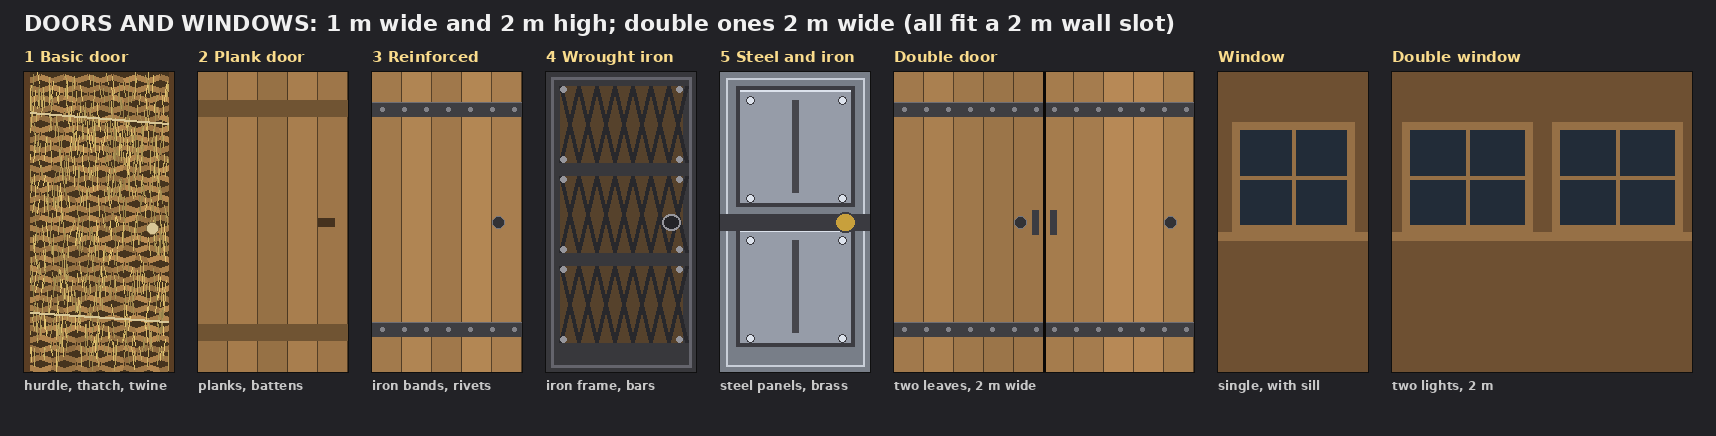
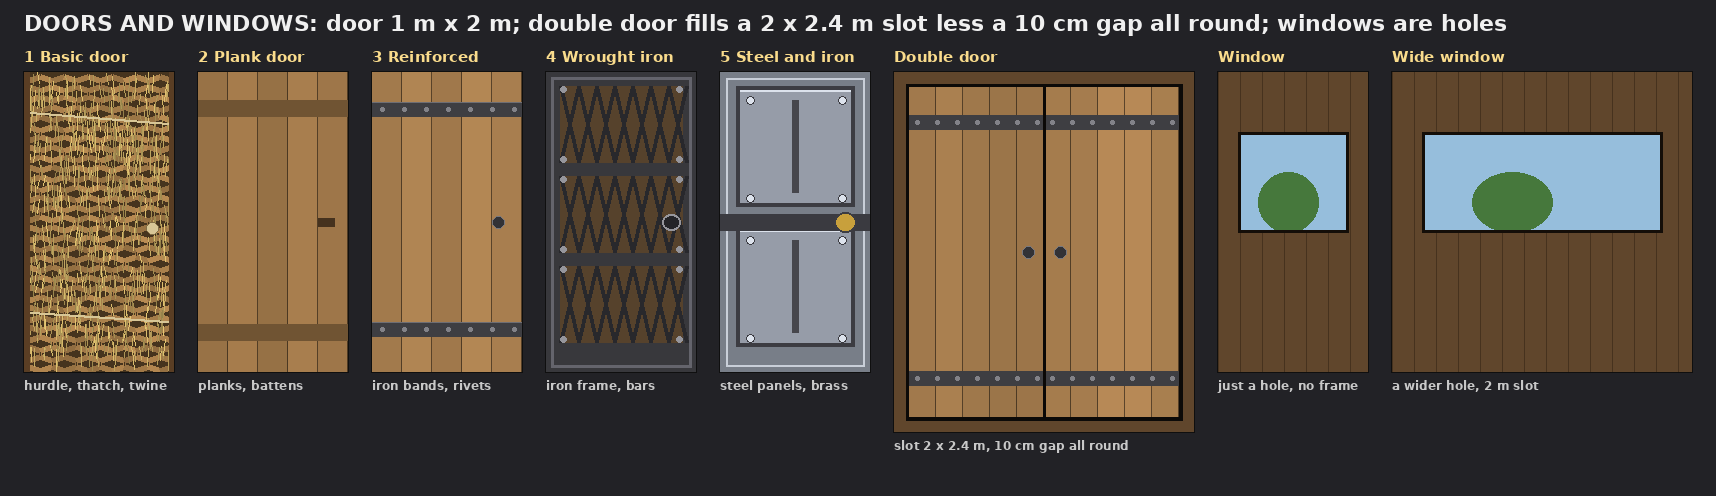
Doors: windows are holes, double door 10 cm gap all round (designs)
Claude-Session: https://claude.ai/code/session_01CZx7jASx6pGZ8KWpdsaQti

diff --git a/tools/design_tiers.py b/tools/design_tiers.py
@@ -652,43 +652,61 @@ def door_steel(rng):
 
 
 def door_double(rng):
-    w, h = DOOR
-    img = canvas((w * 2, h), (30, 22, 14))
-    left = door_reinforced(rng)
-    right = door_reinforced(rng)
-    img.paste(left, (0, 0))
-    img.paste(right, (w, 0))
+    """A double door in a full 2 m x 2.4 m wall slot: each edge 10 cm short of the slot all round (a visible gap), so the leaves are 1.8 m wide and 2.2 m high."""
+    sw, sh = 2 * PPM, int(2.4 * PPM)
+    img = canvas((sw, sh), (96, 70, 44))                        # the wall around it
+    g = int(0.1 * PPM)
+    leaf_w, leaf_h = (sw - 2 * g) // 2, sh - 2 * g
     d = ImageDraw.Draw(img)
-    d.line([(w, 0), (w, h)], fill=(10, 8, 6), width=3)
-    d.rectangle([w - 12, h // 2 - 12, w - 6, h // 2 + 12], fill=(60, 60, 66))
-    d.rectangle([w + 6, h // 2 - 12, w + 12, h // 2 + 12], fill=(60, 60, 66))
+    d.rectangle([g - 3, g - 3, sw - g + 3, sh - g + 3], fill=(12, 10, 8))                # the 10 cm gap: dark around the leaves
+
+    for k in range(2):
+        leaf = Image.new("RGB", (leaf_w, leaf_h), (30, 22, 14))
+        dl = ImageDraw.Draw(leaf)
+        door_planks(dl, leaf_w, leaf_h, rng, (170, 128, 80), battens=False)
+
+        for y in (28, leaf_h - 46):
+            dl.rectangle([0, y, leaf_w, y + 14], fill=(62, 62, 66))
+
+            for x in range(8, leaf_w, 20):
+                dl.ellipse([x - 2, y + 5, x + 2, y + 9], fill=(130, 130, 136))
+
+        img.paste(leaf, (g + k * leaf_w, g))
+
+    d = ImageDraw.Draw(img)
+    d.line([(sw // 2, g), (sw // 2, sh - g)], fill=(10, 8, 6), width=3)                 # the 3 mm seam between the leaves is drawn heavier so it shows
+    d.ellipse([sw // 2 - 22, sh // 2 - 6, sw // 2 - 10, sh // 2 + 6], fill=(50, 50, 54), outline=(120, 120, 126))
+    d.ellipse([sw // 2 + 10, sh // 2 - 6, sw // 2 + 22, sh // 2 + 6], fill=(50, 50, 54), outline=(120, 120, 126))
     return img
 
 
 def window_single(rng):
+    """A window is just a hole in the wall (Dave): the wall around it, sky and a tree beyond. No frame. Shutters come later as separate hinged pieces."""
     w, h = DOOR
-    img = canvas((w, h), (110, 80, 50))
+    img = canvas((w, h), (96, 70, 44))
     d = ImageDraw.Draw(img)
-    d.rectangle([14, 50, w - 14, 50 + 110], fill=(34, 44, 56))
-    d.rectangle([14, 50, w - 14, 50 + 110], outline=(150, 112, 70), width=8)
-    d.line([(w // 2, 56), (w // 2, 152)], fill=(150, 112, 70), width=4)
-    d.line([(20, 105), (w - 20, 105)], fill=(150, 112, 70), width=4)
-    d.rectangle([0, 160, w, 168], fill=(150, 112, 70))
+
+    for x in range(0, w, 22):
+        d.line([(x, 0), (x, h)], fill=(70, 50, 30), width=1)
+
+    d.rectangle([20, 60, w - 20, 160], fill=(150, 190, 220))
+    d.ellipse([40, 100, 100, 160], fill=(70, 120, 60))
+    d.rectangle([20, 60, w - 20, 160], outline=(20, 14, 8), width=3)
     return img
 
 
 def window_double(rng):
+    """A wide window: a bigger hole, 1.6 m (still just a hole)."""
     w, h = DOOR
-    img = canvas((w * 2, h), (110, 80, 50))
+    img = canvas((w * 2, h), (96, 70, 44))
     d = ImageDraw.Draw(img)
 
-    for k in range(2):
-        x0 = k * w + 10
-        d.rectangle([x0, 50, x0 + w - 20, 160], fill=(34, 44, 56), outline=(150, 112, 70), width=8)
-        d.line([(x0 + (w - 20) // 2, 56), (x0 + (w - 20) // 2, 152)], fill=(150, 112, 70), width=4)
-        d.line([(x0 + 6, 105), (x0 + w - 26, 105)], fill=(150, 112, 70), width=4)
+    for x in range(0, w * 2, 22):
+        d.line([(x, 0), (x, h)], fill=(70, 50, 30), width=1)
 
-    d.rectangle([0, 160, w * 2, 168], fill=(150, 112, 70))
+    d.rectangle([30, 60, w * 2 - 30, 160], fill=(150, 190, 220))
+    d.ellipse([80, 100, 160, 160], fill=(70, 120, 60))
+    d.rectangle([30, 60, w * 2 - 30, 160], outline=(20, 14, 8), width=3)
     return img
 
 
@@ -696,20 +714,20 @@ def doors_sheet(out):
     gap = 24
     items = [("1 Basic door", door_basic, "hurdle, thatch, twine"), ("2 Plank door", door_plank, "planks, battens"), ("3 Reinforced", door_reinforced, "iron bands, rivets"),
              ("4 Wrought iron", door_wrought, "iron frame, bars"), ("5 Steel and iron", door_steel, "steel panels, brass"),
-             ("Double door", door_double, "two leaves, 2 m wide"), ("Window", window_single, "single, with sill"), ("Double window", window_double, "two lights, 2 m")]
-    sizes = [DOOR, DOOR, DOOR, DOOR, DOOR, (2 * DOOR[0], DOOR[1]), DOOR, (2 * DOOR[0], DOOR[1])]
+             ("Double door", door_double, "slot 2 x 2.4 m, 10 cm gap all round"), ("Window", window_single, "just a hole, no frame"), ("Wide window", window_double, "a wider hole, 2 m slot")]
+    sizes = [DOOR, DOOR, DOOR, DOOR, DOOR, (2 * DOOR[0], int(2.4 * PPM)), DOOR, (2 * DOOR[0], DOOR[1])]
     w = sum(s[0] for s in sizes) + gap * (len(items) + 1)
-    h = 72 + DOOR[1] + 40 + gap
+    h = 72 + int(2.4 * PPM) + 40 + gap
     img = canvas((w, h), (34, 34, 38))
     d = ImageDraw.Draw(img)
-    d.text((gap, 10), "DOORS AND WINDOWS: 1 m wide and 2 m high; double ones 2 m wide (all fit a 2 m wall slot)", fill=(240, 240, 240), font=font(22))
+    d.text((gap, 10), "DOORS AND WINDOWS: door 1 m x 2 m; double door fills a 2 x 2.4 m slot less a 10 cm gap all round; windows are holes", fill=(240, 240, 240), font=font(22))
     x = gap
 
     for (name, make, note), size in zip(items, sizes):
         img.paste(make(rng_for(len(name))), (x, 72))
         d.rectangle([x - 1, 71, x + size[0], 72 + size[1]], outline=(15, 15, 15))
         d.text((x, 48), name, fill=(250, 220, 140), font=font(15))
-        d.text((x, 72 + DOOR[1] + 6), note, fill=(200, 200, 200), font=font(12))
+        d.text((x, 72 + size[1] + 6), note, fill=(200, 200, 200), font=font(12))
         x += size[0] + gap
 
     img.save(out)

diff --git a/art/BUILDING_TIERS_LOOKS.md b/art/BUILDING_TIERS_LOOKS.md
@@ -50,3 +50,6 @@ Place and door sounds per tier: thatch (basic), board (plank, fine), log (new: d
 - Each angle has a straight slope piece, a HIP corner piece (outside corner) and a VALLEY corner piece (inside corner of an L-shaped house): 6 roof pieces per tier look.
 - Pillars: round log post, squared timber, stone pillar, mason column (base and capital). A pillar snaps to the centre or any of the 4 corners of a foundation (4 x 4 m) or a floor/ceiling cell (2 x 2 m): 5 snap points.
 - Foundation sentence for the page: every building starts on a foundation. A foundation goes on the ground anywhere level enough to hide the whole bottom; on a slope it must be levelled first. Foundations join side by side to make the floor and the shape of the house, then you build up from them. Most pieces snap to most other pieces in a sensible way. (Sal/Steve own the rule.)
+
+## Door and window changes (Dave 23:01)
+Windows are just holes in the wall (no frame piece, no glass); shutters come later as separate hinged wood pieces. A double door sits in a full 2 x 2.4 m wall slot with 10 cm clear all round (leaves 1.8 m wide, 2.2 m high), like Ark. Picture tiers_doors.png redrawn.
